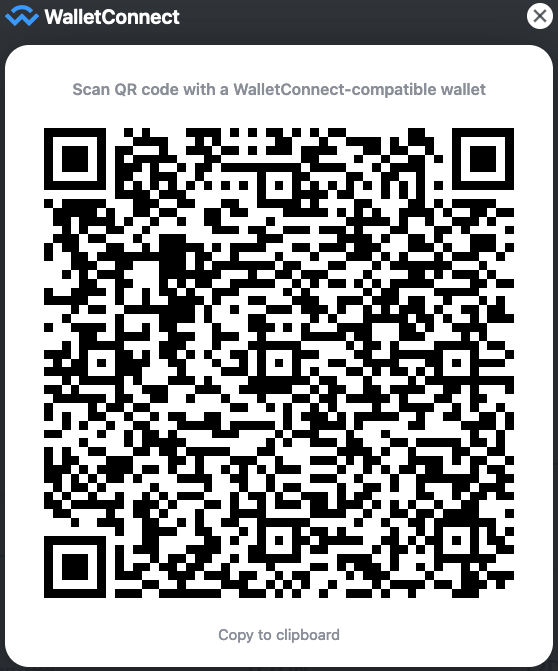
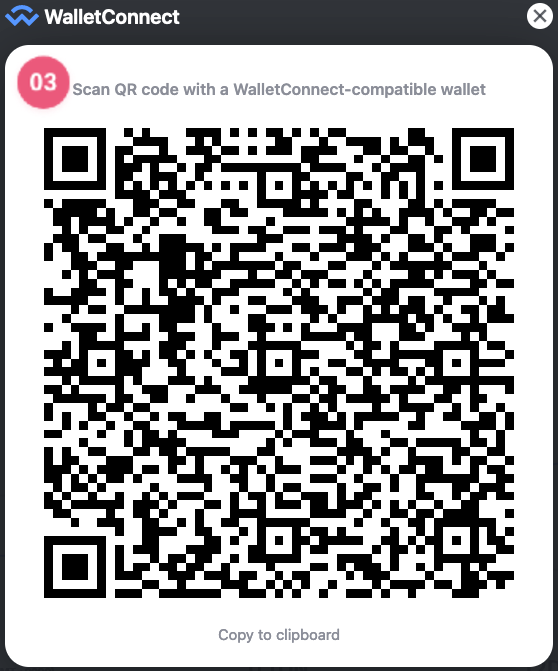
fix grammar mistakes

Changed region(s): [[0.0305, 0.0596, 0.1219, 0.1788], [0.0, 0.0, 0.0609, 0.0596]]

diff --git a/src/components/support/SupportStake.vue b/src/components/support/SupportStake.vue
@@ -2,9 +2,9 @@
   <div>
     <div class="title">Stake</div>
 
-    <h4 class="mini-subtitle">What is Stake? </h4>
+    <h4 class="mini-subtitle">What is Staking? </h4>
     <ul>
-      <li class="description" style="margin-left:-10px; margin-bottom:10px">It means to divide the profits of staking by delegating TON to the operator that is already in operation.</li>
+      <li class="description" style="margin-left:-10px; margin-bottom:10px">It means dividing the profits of staking by delegating TON to an operator that is already in operation.</li>
     </ul>
 
     <div class="image-container">
@@ -13,10 +13,7 @@
 
     <h4 class="mini-subtitle">Select Operator</h4>
     <ol>
-      <li class="description" style="margin-left:-10px; margin-bottom:10px">Select the operator you want to delegate from the Operator list</li>
-      <li class="description" style="margin-left:-10px; margin-bottom:10px">
-        if you click 1(unfold) button, you can see the information of operators( Total Delegates, Pending Withdrawal, Recent Commit, Commit Count, Staking history, Commit history)
-      </li>
+      <li class="description" style="margin-left:-10px; margin-bottom:10px">Select the operator you want to delegate from the Operator list by clicking the unfold button. You can see information of operators such as Total Delegates, Pending Withdrawal, Recent Commit, Commit Count, Staking history, and Commit history.</li>
     </ol>
 
     <div class="image-container" :style="{marginTop: '90px', marginBottom: '40px'}">
@@ -27,10 +24,10 @@
 
     <h4 class="mini-subtitle">02. Stake TON to Operator</h4>
     <ol>
-      <li class="description" style="margin-left:-10px; margin-bottom:10px"> Press the Stake button. Popup will appear</li>
-      <li class="description" style="margin-left:-10px; margin-bottom:10px"> writing down the quantity of TON to delegate. </li>
-      <li class="description" style="margin-left:-10px; margin-bottom:10px"> Click <strong>Stake</strong> button</li>
-      <li class="description" style="margin-left:-10px; margin-bottom:10px"> if you want to close popup, click <strong>X</strong> button</li>
+      <li class="description" style="margin-left:-10px; margin-bottom:10px"> Press the Stake button and a popup will appear.</li>
+      <li class="description" style="margin-left:-10px; margin-bottom:10px"> Insert the amount of TON to stake. </li>
+      <li class="description" style="margin-left:-10px; margin-bottom:10px"> Click the <strong>Stake</strong> button.</li>
+      <li class="description" style="margin-left:-10px; margin-bottom:10px"> If you want to close the popup, click the <strong>X</strong> button.</li>
 
       <ul>
         <li class="description" style="margin-left:-10px; margin-bottom:10px">
@@ -39,14 +36,17 @@
         </li>
       </ul>
 
-      <li class="description" style="margin-left:-10px; margin-bottom:10px">Click <strong>Confirm</strong> button</li>
-    </ol>
-    <ul>
       <li class="description" style="margin-left:-10px; margin-bottom:10px">
-        Once  staked, there will be a delay for the duration set by the operator upon withdrawal request.
-        (Default is 93046 blocks, approximately 2 weeks)
+       Click the confirm button of the Metamask popup that will open from the Metamask extension of your browswer.
+
+        <ul>
+          <li class="description" style="margin-left:-10px; margin-bottom:10px">
+            Once  staked, there will be a delay for the duration set by the operator upon withdrawal request.
+            (Default is 93046 blocks, approximately 2 weeks)
+          </li>
+        </ul>
       </li>
-    </ul>
+    </ol>
 
     <div class="image-container" :style="{marginTop: '90px', marginBottom: '40px'}">
       <img class="image" src="@/assets/images/support/stake_5.png">
@@ -56,24 +56,20 @@
 
     <h4 class="mini-subtitle">03. Staking Calculator</h4>
     <ol>
-      <li class="description" style="margin-left:-10px; margin-bottom:10px"> Press the Simulator button. Popup will appear</li>
-      <li class="description" style="margin-left:-10px; margin-bottom:10px"> writing down the quantity of TON to you want to stake. </li>
-      <li class="description" style="margin-left:-10px; margin-bottom:10px"> Select duration you want to stkae</li>
-      <li class="description" style="margin-left:-10px; margin-bottom:10px"> Click <strong>Calculate</strong> button</li>
-      <li class="description" style="margin-left:-10px; margin-bottom:10px"> if you want to close popup, click <strong>X</strong> button</li>
-
-
-      <div class="image-container" :style="{marginTop: '40px', marginBottom: '40px'}" />
-
+      <li class="description" style="margin-left:-10px; margin-bottom:10px"> Press the Simulator button and a popup will appear.</li>
+      <li class="description" style="margin-left:-10px; margin-bottom:10px"> Insert the amount of TON to stake. </li>
+      <li class="description" style="margin-left:-10px; margin-bottom:10px"> Select duration you want to stkae.</li>
+      <li class="description" style="margin-left:-10px; margin-bottom:10px"> Click the <strong>Calculate</strong> button.</li>
+      <li class="description" style="margin-left:-10px; margin-bottom:10px"> If you want to close popup, click the <strong>X</strong> button.</li>
       <li class="description" style="margin-left:-10px; margin-bottom:10px">
-        Estimated amount of TONs you earn
+        Estimated amount of TONs you will earn during the selected period will appear here.
       </li>
-      <li class="description" style="margin-left:-10px; margin-bottom:10px"> Value of estimated amount of TONs and APY. </li>
+      <li class="description" style="margin-left:-10px; margin-bottom:10px"> The USD value, the APY, and the KRW value of the amount of TON you will earn will appear here.   </li>
       <li class="description" style="margin-left:-10px; margin-bottom:10px">
         If you click the <strong>Stake</strong> button, the staking popup will appear.
       </li>
-      <li class="description" style="margin-left:-10px; margin-bottom:10px"> if you want to recalculate, click the <strong>Recalculate</strong> button.</li>
-      <li class="description" style="margin-left:-10px; margin-bottom:10px"> if you want to close popup, click <strong>X</strong> button.</li>
+      <li class="description" style="margin-left:-10px; margin-bottom:10px"> If you want to recalculate, click the <strong>Recalculate</strong> button.</li>
+      <li class="description" style="margin-left:-10px; margin-bottom:10px"> If you want to close popup, click <strong>X</strong> button.</li>
     </ol>
   </div>
 </template>

diff --git a/src/components/support/SupportLogin.vue b/src/components/support/SupportLogin.vue
@@ -4,13 +4,14 @@
     <p class="description">
       You need to login to our staking serive by connecting your wallet to the
       simple staking service to obtain access to some functionalities such as
-      staking and account information. By clicking the <span style="font-weight:bold">Connect Wallet (01)</span> button on the top right of the screen you can choose how to connect to your wallet.
+      staking and account information. By clicking the <span style="font-weight:bold">Connect Wallet </span> button on the top right of the screen you can choose how to connect to your wallet.
     </p>
     <h4 class="mini-subtitle">Connect with Metamask</h4>
     <ol>
-      <li class="description" style="margin-left:-10px; margin-bottom:10px">Make sure you are connected to the Ethereum Mainnet network. Then click <span style="font-weight:bold">Connect Wallet (01)</span> button and click the <span style="font-weight:bold">Metamask (02)</span> icon on the pop-up. </li>
+      <li class="description" style="margin-left:-10px; margin-bottom:10px">Make sure you are connected to the Ethereum Mainnet network. Then click <span style="font-weight:bold">Connect Wallet</span> button </li>
+      <li class="description" style="margin-left:-10px; margin-bottom:10px">click the <span style="font-weight:bold">Metamask</span> icon on the pop-up. </li>
       <li class="description" style="margin-left:-10px; margin-bottom:10px">
-        Click on the Metmask icon of your brower extensions list and select the account you want to connect to our serivce as below <span style="font-weight:bold">(03)</span>.
+        Click on the Metmask icon of your brower extensions list and select the account you want to connect to our serivce.
       </li>
     </ol>
     <div class="image-container">
@@ -19,12 +20,14 @@
     </div>
     <h4 class="mini-subtitle">Connect with WalletConnect</h4>
     <ol>
-      <li class="description" style="margin-left:-10px; margin-bottom:10px">Fist click <span style="font-weight:bold">Connect Wallet</span> button and click the WalletConnect icon on the pop-up. </li>
+      <li class="description" style="margin-left:-10px; margin-bottom:10px">Click the <span style="font-weight:bold">Connect Wallet</span> button. </li>
+      <li class="description" style="margin-left:-10px; margin-bottom:10px"> Click the WalletConnect icon on the pop-up. </li>
       <li class="description" style="margin-left:-10px; margin-bottom:10px">
         Scan the QR code that appears on the screen with a mobile application that allows you to connect to DAPPs by scanning a QR code such as the Metamask mobile app or Trust Wallet app.
       </li>
     </ol>
     <div class="image-container">
+      <img class="screenshot" src="@/assets/images/support/connect_03.png">
       <img class="screenshot" src="@/assets/images/wallet_connect_screenshot_1.png">
     </div>
   </div>

diff --git a/src/components/support/SupportInstallMetamask.vue b/src/components/support/SupportInstallMetamask.vue
@@ -25,16 +25,21 @@
         </div>
       </li>
       <li class="description" style="margin-left:-10px; margin-bottom:10px">
-        To add TON on your wallet, make sure you're connected to the <span style="font-weight:bold">Ethereum Mainnet</span> network. Then first click the
-        <span style="font-weight:bold">Add Token (01)</span> button and then click
-        the <span style="font-weight:bold">Custom Token (02)</span> tab. Insert the following information in the respective fields as shown in the image below.
-        <ul>
-          <li class="description" style="margin-top:10px">Token Contract Address: <span style="font-weight:bold">0x2be5e8c109e2197D077D13A82dAead6a9b3433C5</span></li>
-          <li>Token Symbol: <span style="font-weight:bold">TON</span></li>
-          <li>Decimals of Precision: <span style="font-weight:bold">18</span></li>
-        </ul>
-        Then click the <span style="font-weight:bold">Next (03) </span> button and <span style="font-weight:bold">Add Tokens (04)</span> button in the next screen to add TON to your account.
+        To add TON on your wallet, make sure you're connected to the <span style="font-weight:bold">Ethereum Mainnet</span> network. Then click the
+        <span style="font-weight:bold">Add Token</span> button.
       </li>
+      <li class="description" style="margin-left:-10px; margin-bottom:10px">
+        Click the <span style="font-weight:bold">Custom Token</span> tab.
+      </li>
+      <li class="description" style="margin-left:-10px; margin-bottom:10px">
+        Insert contract address as shown in the image below. The Token Symbol and Decimals of Precision will be filled automatically.
+        <ul>
+          <li class="description" style="margin-left:-10px; margin-top:10px">Token Contract Address: <span style="font-weight:bold">0x2be5e8c109e2197D077D13A82dAead6a9b3433C5</span></li>
+        </ul>
+      </li>
+      <li class="description" style="margin-left:-10px; margin-bottom:10px">Click the <span style="font-weight:bold">Next </span> button </li>
+
+      <li class="description" style="margin-left:-10px; margin-bottom:10px"> <span style="font-weight:bold">Add Tokens</span> button in the next screen to add TON to your account.</li>
       <div class="image-container">
         <img class="screenshot" src="@/assets/images/support/metamask_01.png">
         <img class="screenshot" src="@/assets/images/support/metamask_02.png">

diff --git a/src/components/support/SupportUnstake.vue b/src/components/support/SupportUnstake.vue
@@ -7,23 +7,22 @@
     <div class="title">Un-stake</div>
 
     <ol>
-      <li class="description" style="margin-left:-10px; margin-bottom:10px">Press the Unstake button. Popup will appear</li>
+      <li class="description" style="margin-left:-10px; margin-bottom:10px">Press the <strong>Unstake</strong> button and a popup will appear.</li>
       <li class="description" style="margin-left:-10px; margin-bottom:10px">
-        Writing down the quantity of TON to unstake.
+        Insert the amount of TON to unstake.
       </li>
       <li class="description" style="margin-left:-10px; margin-bottom:10px">
-        Click ‘Unstake’ button
+        Click the <strong>Unstake</strong> button
       </li>
       <li class="description" style="margin-left:-10px; margin-bottom:10px">
-        Check the connected metamask
+        Click the confirm button of the Metamask popup that will open from the Metamask extension of your browswer.
+        <ul>
+          <li class="description" style="margin-left:-10px; margin-bottom:10px">
+            Not Withdrawable: If you unstake staked TON, it is the quantity of TON that is in the withdrawal delay period set by the operator. (Default is 93046 blocks, approximately 2 weeks)
+          </li>
+        </ul>
       </li>
     </ol>
-    <ul>
-      <li class="description" style="margin-left:-10px; margin-bottom:10px">
-        Not Withdrawable
-        : If you unstake a staked TON, it is the quantity of TON in Not Withdraw for the period set by the operator. (Default is 93046 blocks, approximately 2 weeks)
-      </li>
-    </ul>
   </div>
 </template>
 

diff --git a/src/components/support/SupportRestake.vue b/src/components/support/SupportRestake.vue
@@ -6,15 +6,12 @@
     </div>
     <div class="title">Re-stake</div>
     <ol>
-      <li class="description" style="margin-left:-10px; margin-bottom:10px">Press the ‘Re-stake’ button. Popup will appear</li>
+      <li class="description" style="margin-left:-10px; margin-bottom:10px">Press the <strong>Re-stake</strong> button and a popup will appear.</li>
       <li class="description" style="margin-left:-10px; margin-bottom:10px">
-        Writing down the quantity of TON to Re-stake
+        Click the <strong>Re-stake</strong> button to re-stake all your re-stakable TON at once.
       </li>
       <li class="description" style="margin-left:-10px; margin-bottom:10px">
-        Click ‘Re-stake’ button
-      </li>
-      <li class="description" style="margin-left:-10px; margin-bottom:10px">
-        Check the connected metamask
+        Click the <strong>Confirm</strong> button of the Metamask popup that will open from the Metamask extension of your browswer.
       </li>
     </ol>
   </div>

diff --git a/src/components/support/SupportWithdraw.vue b/src/components/support/SupportWithdraw.vue
@@ -6,9 +6,9 @@
     </div>
     <div class="title">Withdraw</div>
     <ol>
-      <li class="description" style="margin-left:-10px; margin-bottom:10px">Press the <strong>Withdraw </strong> button, popup will appear.</li>
+      <li class="description" style="margin-left:-10px; margin-bottom:10px">Press the <strong>Withdraw </strong> button, and a popup will appear.</li>
       <li class="description" style="margin-left:-10px; margin-bottom:10px">Click <strong>Withdraw</strong> button of the popup to withdraw all your TON at once.</li>
-      <li class="description" style="margin-left:-10px; margin-bottom:10px">Clock the <strong>Confirm</strong> button of the Metamask popup to confirm the transaction. </li>
+      <li class="description" style="margin-left:-10px; margin-bottom:10px">Click the <strong>Confirm</strong> button of the Metamask popup to confirm the transaction. </li>
     </ol>
   </div>
 </template>

diff --git a/src/components/UnstakeModal.vue b/src/components/UnstakeModal.vue
@@ -11,7 +11,7 @@
       <div class="model-content">
         <h1 class="model-content-title">Unstake</h1>
         <h2 class="model-content-subTitle">
-          Are you really want unstake your TON now?
+          Do you really want unstake your TON now?
         </h2>
         <div class="model-line" />
         <div class="model-ton-stake">
@@ -127,7 +127,6 @@ export default {
   },
   methods: {
     getMaxBalance (args) {
-      console.log(args.toBigNumber().toString());
       let afterDecimalNumber;
       const tonAmount = this.operator.userStaked.toBigNumber().toString();
       const spliedTonAmount = tonAmount.split('.');
@@ -163,6 +162,7 @@ export default {
       }
     },
     undelegate () {
+
       const tonAmount = parseFloat(this.inputTon.replace(/,/g, ''));
       if (tonAmount === '' || parseFloat(tonAmount) === 0) {
         return alert('Please check input amount.');

diff --git a/src/layouts/SupportLayout.vue b/src/layouts/SupportLayout.vue
@@ -51,7 +51,7 @@
       <div ref="restake">
         <SupportRestake />
       </div>
-       <div ref="withdraw">
+      <div ref="withdraw">
         <SupportWithdraw />
       </div>
       <div ref="powerton">
